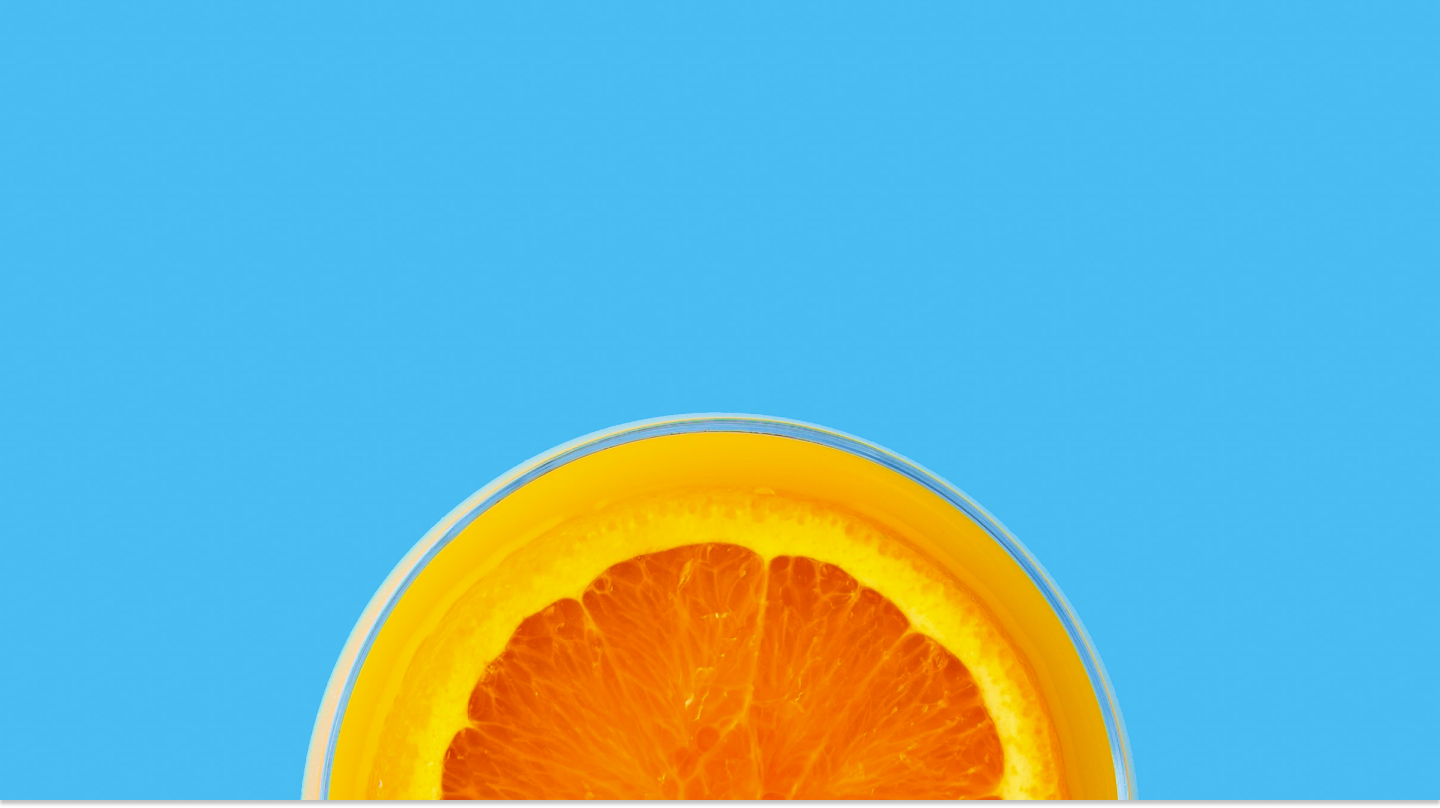
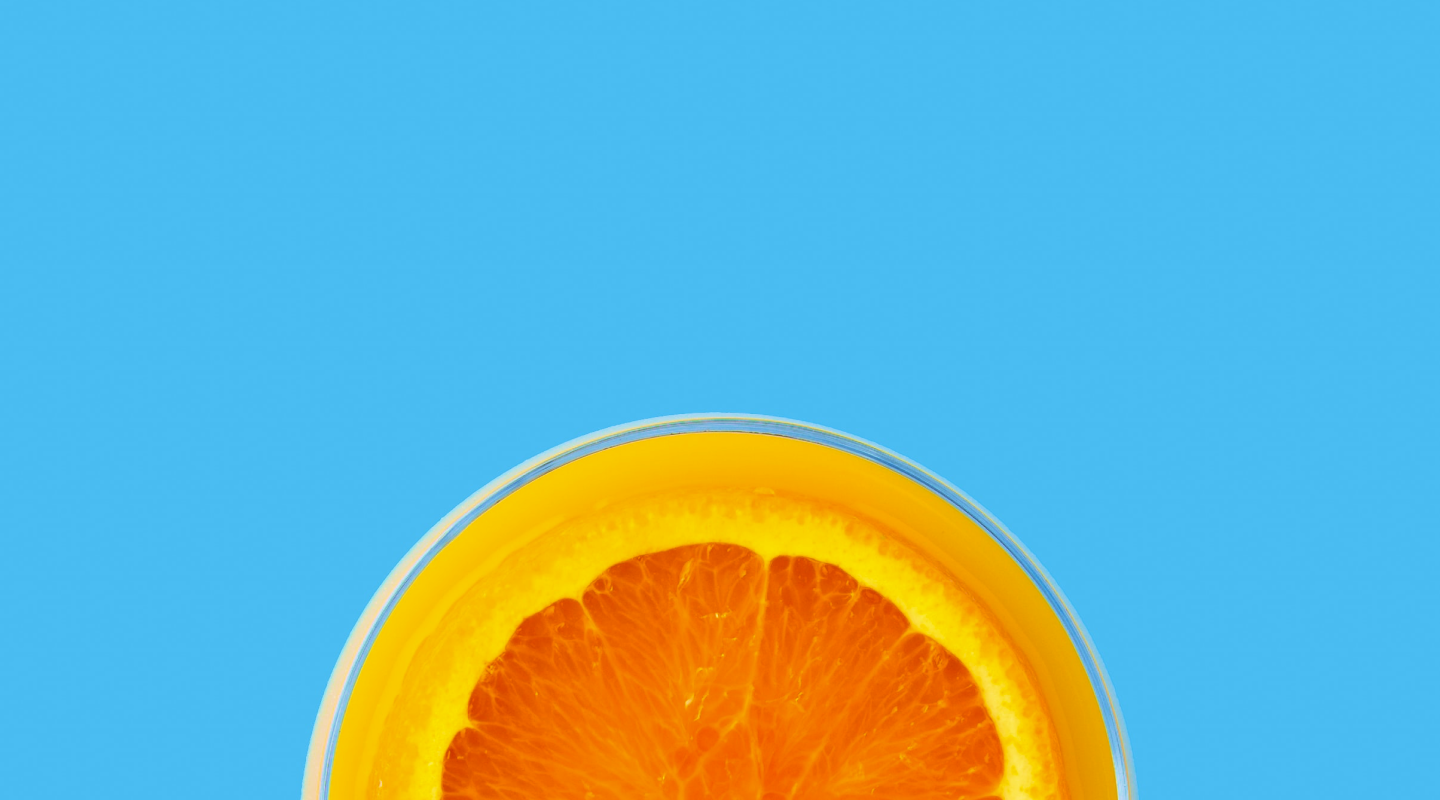
section 1
add section 1

add style section 1

add responsive section 1

Changed region(s): [[0.0, 0.5, 1.0, 1.0], [0.3125, 0.6562, 0.625, 0.9375], [0.4688, 0.875, 0.5312, 0.9062]]

diff --git a/css/style.css b/css/style.css
@@ -12,6 +12,7 @@
   --mb_nav_white: #fffcf8;
   --gray: #808397;
   --yelow: #fbd600;
+  --yelow2: #fad400;
 }
 
 /*  */
@@ -105,7 +106,142 @@ nav ul button {
 
 /* header end */
 
+/*  */
+
+/* section 1 start */
+
+.section_1 {
+  max-width: 1440px;
+  display: flex;
+}
+
+.textContant_box {
+  width: 720px;
+  height: 600px;
+  display: flex;
+  justify-content: end;
+}
+
+.textContant {
+  width: 445px;
+  height: 285px;
+  margin: 158px 102px 0px 0px;
+}
+
+.textContant h1 {
+  width: 445px;
+  height: 98px;
+  margin-bottom: 40px;
+  font-family: 'Fraunces', serif;
+  font-weight: 900;
+  font-size: 40px;
+  line-height: 49px;
+  letter-spacing: -0.29px;
+  color: var(--black);
+}
+
+.textContant p {
+  width: 445px;
+  height: 90px;
+  margin-bottom: 40px;
+  font-weight: 600;
+  font-size: 18px;
+  line-height: 30px;
+  letter-spacing: -0.13px;
+  color: var(--gray);
+}
+
+.span_box {
+  width: 137px;
+  height: 35px;
+  display: flex;
+  flex-direction: column;
+  align-items: center;
+  text-align: center;
+}
+
+.textContant .span_box span {
+  width: 120px;
+  height: 25px;
+  font-family: 'Fraunces', serif;
+  font-weight: 900;
+  font-size: 15px;
+  line-height: 25px;
+  letter-spacing: 1px;
+  color: var(--black);
+  text-align: center;
+}
+
+.span_box .underline {
+  width: 137px;
+  height: 10px;
+  border-radius: 28px;
+  opacity: 25%;
+  position: relative;
+  top: -10px;
+  background-color: var(--yelow2);
+}
+
+.section_1_foto {
+  max-width: 720px;
+  height: 600px;
+}
+
+.section_1_foto img {
+  width: 100%;
+  height: 600px;
+  object-fit: cover;
+  /* height: 600px; */
+  background-position: center;
+}
+
+/*  section 1 end */
+
+/*  */
+
 /* responsive start */
+
+/* tablet responsive start */
+
+@media screen and (max-width: 1025px) {
+  /* section_1 start */
+
+  .textContant_box {
+    justify-content: center;
+  }
+
+  .textContant {
+    width: 327px;
+    height: 309px;
+    margin: 158px 0px 0px 0px;
+    display: flex;
+    flex-direction: column;
+    align-items: center;
+  }
+
+  .textContant h1 {
+    width: 327px;
+    height: 78px;
+    font-size: 32px;
+    line-height: 39px;
+    letter-spacing: -0.23px;
+    text-align: center;
+  }
+
+  .textContant p {
+    width: 327px;
+    height: 150px;
+    text-align: center;
+  }
+
+  /* section_1 end */
+}
+
+/* tablet responsive end */
+
+/*  */
+
+/* mobile responsive start */
 
 @media screen and (max-width: 755px) {
   /* main page start */
@@ -207,12 +343,6 @@ nav ul button {
     background-color: var(--yelow);
   }
 
-  /* section 1 header respnsive start */
-
-  /*  */
-
-  /*  section1 content strat*/
-
   .header_background > h1 {
     width: 327px;
     height: 98px;
@@ -223,7 +353,48 @@ nav ul button {
     letter-spacing: 6.25px;
   }
 
-  /*  section1 content end*/
+  /* section 1 header respnsive start */
+
+  /*  */
+
+  /*  section1  strat*/
+
+  .section_1 {
+    max-width: 375px;
+    display: flex;
+    flex-direction: column-reverse;
+    align-items: center;
+  }
+
+  .section_1_foto {
+    max-width: 720px;
+    height: 312px;
+  }
+
+  .section_1_foto img {
+    width: 100%;
+    height: 100%;
+    object-fit: cover;
+    background-position: center;
+  }
+
+  .textContant_box {
+    max-width: 375px;
+    height: 437px;
+    justify-content: center;
+  }
+
+  .textContant {
+    max-width: 327px;
+    height: 309px;
+    margin: 64px 0px 0px 0px;
+  }
+
+  /*  section1 end*/
+
+  /*  */
 }
+
+/* mobile responsive end */
 
 /* responsive end */

diff --git a/index.html b/index.html
@@ -49,6 +49,31 @@
         </header>
         <h1>WE ARE CREATIVES</h1>
       </div>
+      <main>
+        <section>
+          <div class="section_1">
+            <div class="textContant_box">
+              <div class="textContant">
+                <h1>Transform your brand</h1>
+                <p>
+                  We are a full-service creative agency specializing in helping
+                  brands grow fast. Engage your clients through compelling
+                  visuals that do most of the marketing for you.
+                </p>
+                <div class="span_box">
+                  <span>LEARN MORE</span>
+                  <div class="underline"></div>
+                </div>
+              </div>
+            </div>
+            <div class="foto_box">
+              <div class="section_1_foto">
+                <img src="./img/background_section1.png" alt="" />
+              </div>
+            </div>
+          </div>
+        </section>
+      </main>
     </div>
     <script src="./js/script.js"></script>
   </body>
